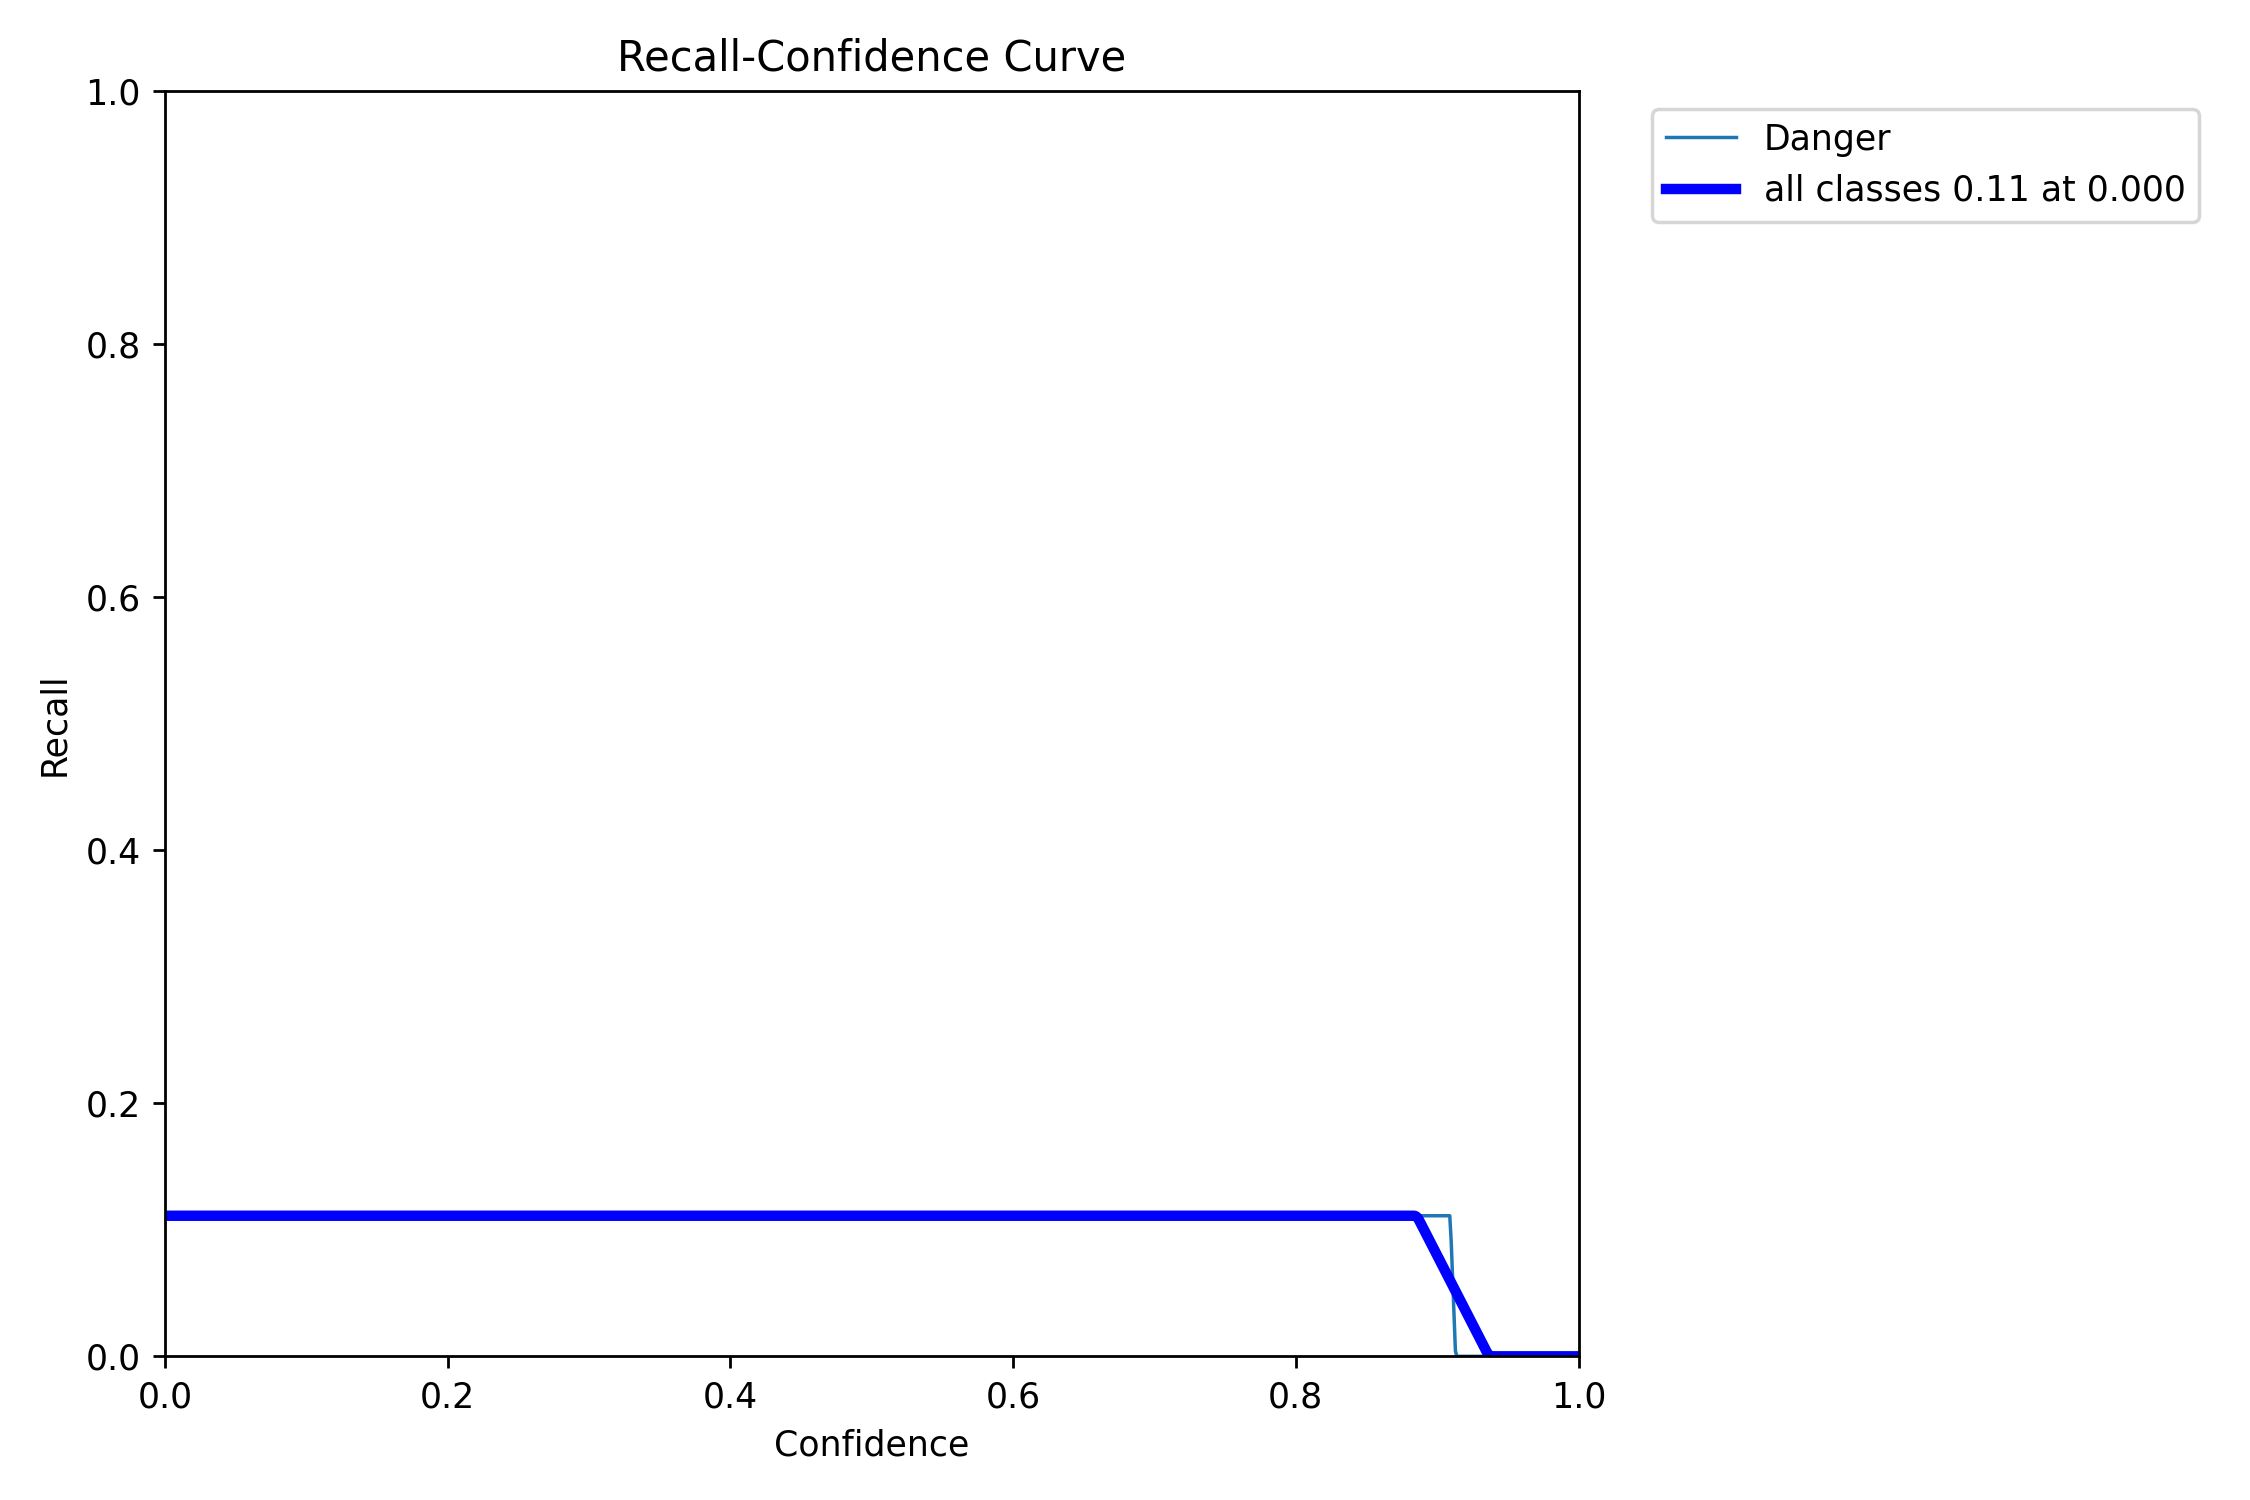
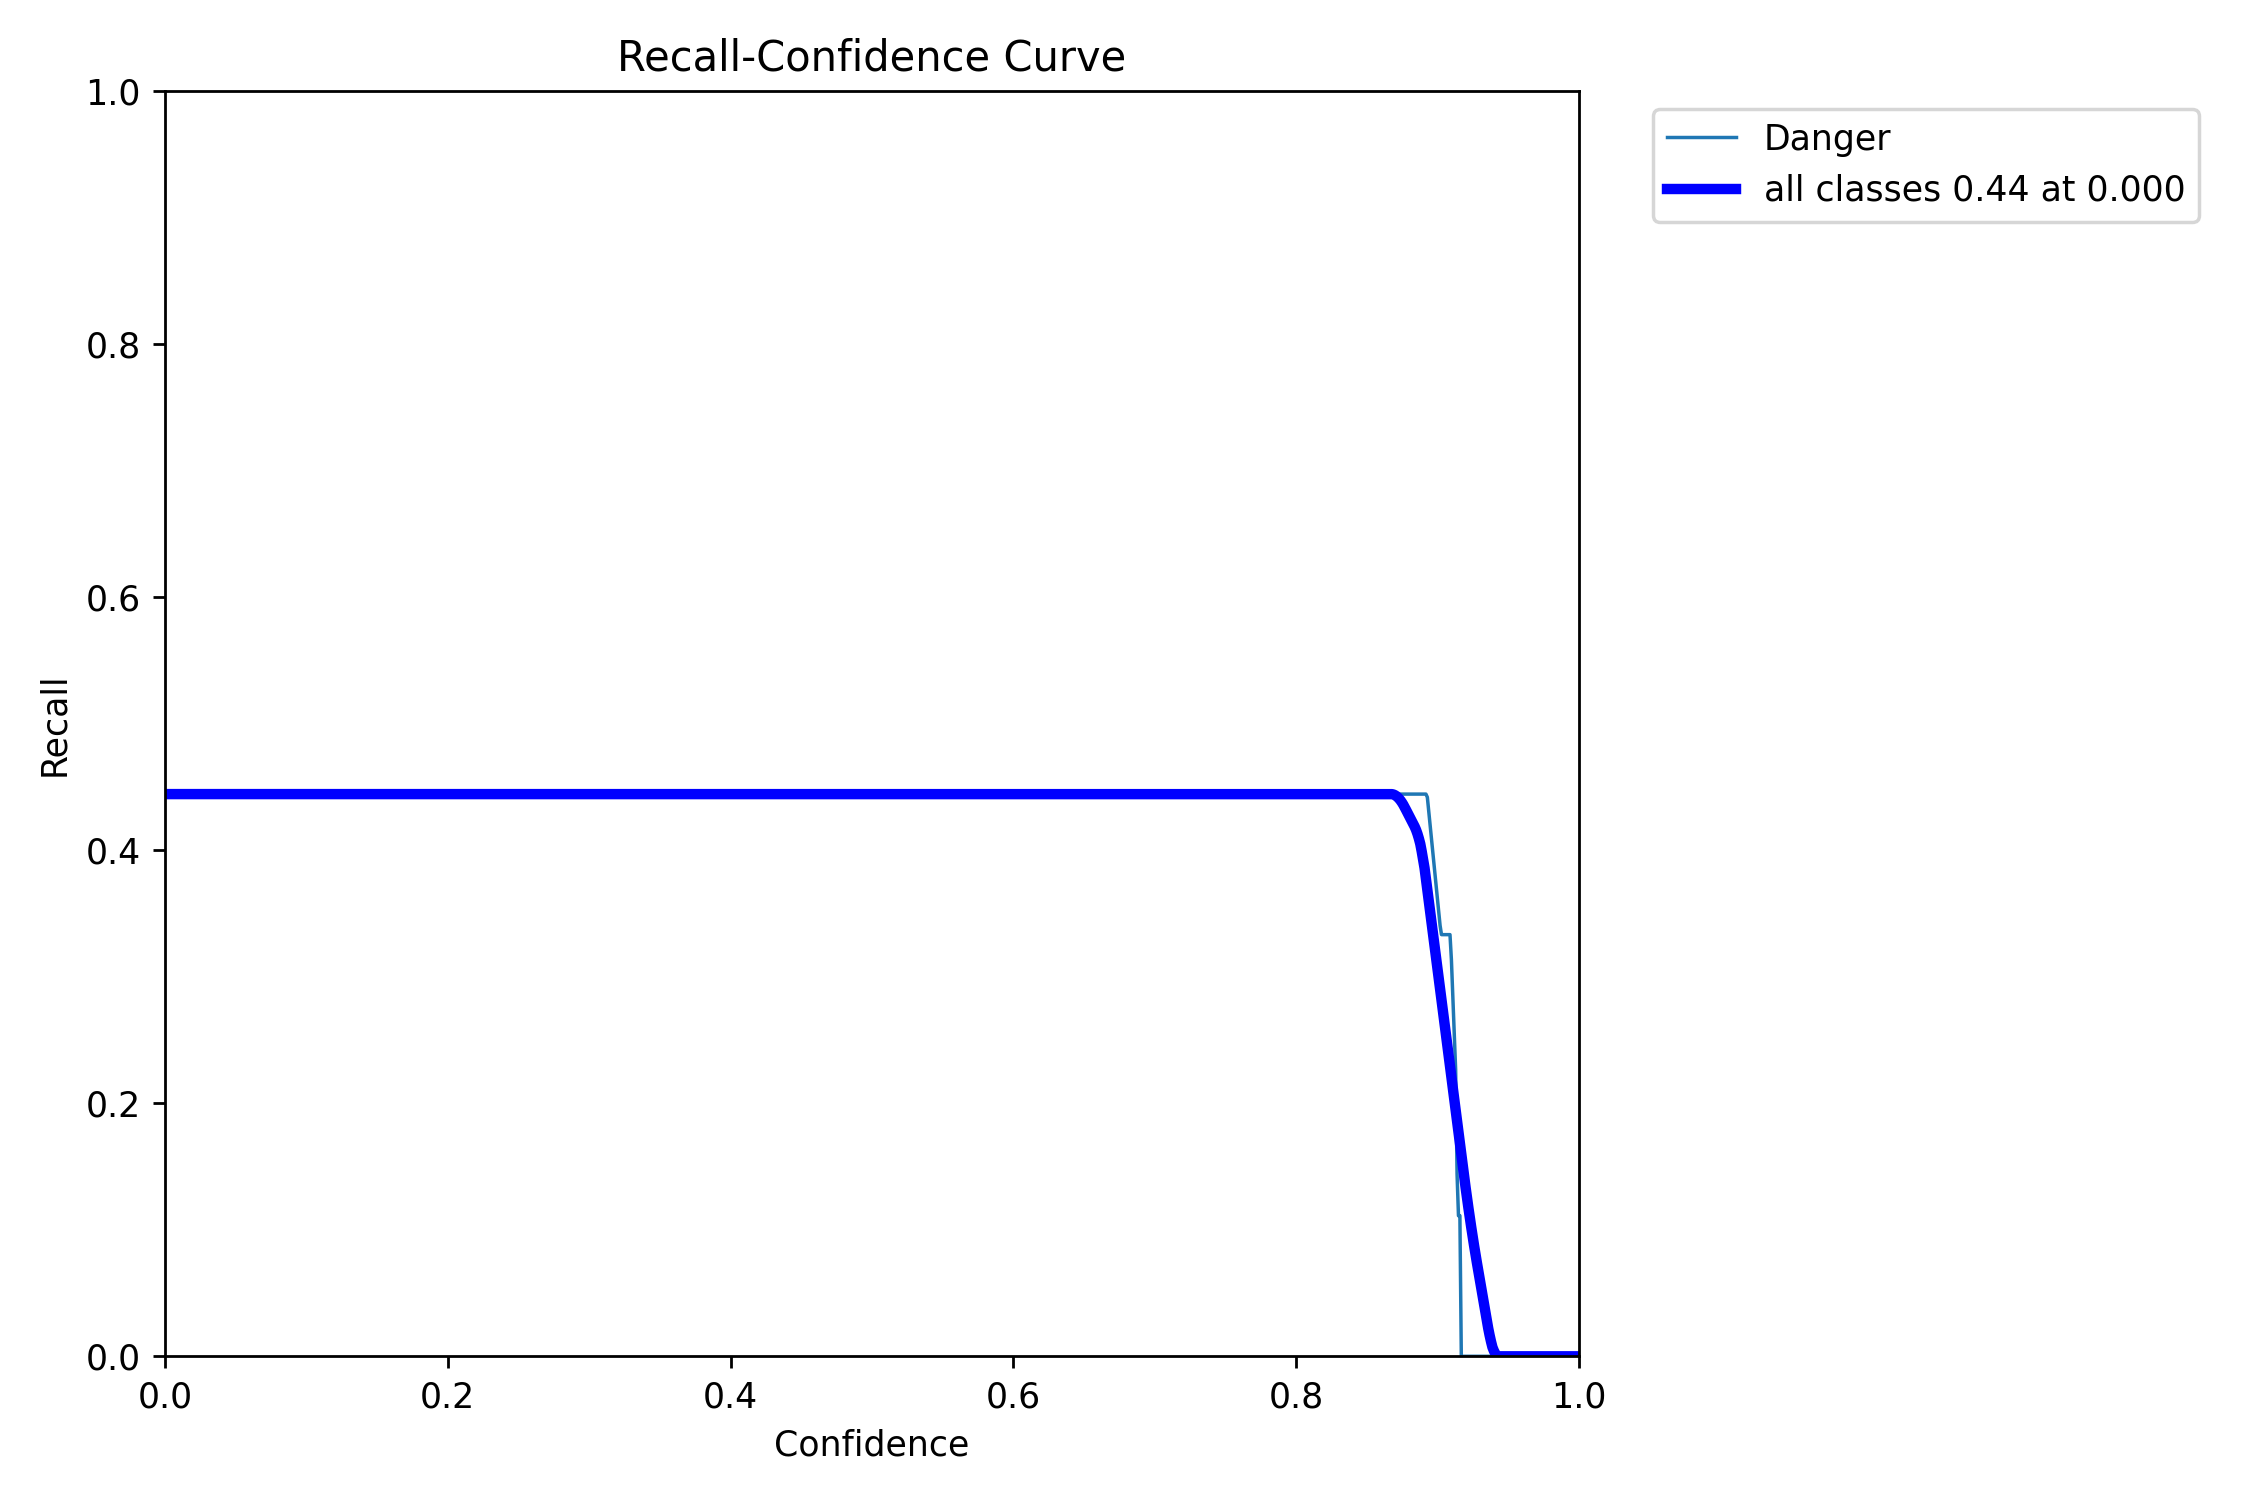
tmp save

Changed region(s): [[0.0622, 0.5213, 0.6844, 0.92], [0.8711, 0.1227, 0.9022, 0.1533], [0.56, 0.92, 0.5911, 0.9507]]

diff --git a/util.py b/util.py
@@ -1,9 +1,16 @@
+import os, platform
 import numpy as np
 from pathlib import Path
 import matplotlib.pyplot as plt
 import cv2
-from PIL import Image
+from PIL import Image, ImageDraw, ImageFont
+from urllib.error import URLError
+import torch
+import logging
 
+LOGGER = logging.getLogger("yolov5")  # define globally (used in train.py, val.py, detect.py, etc.)
+
+FONT = 'Arial.ttf'  # https://ultralytics.com/assets/Arial.ttf
 
 def xyxy2xywh(x: np.array):
     # Convert nx4 boxes from [x1, y1, x2, y2] to [x, y, w, h] where xy1=top-left, xy2=bottom-right
@@ -223,47 +230,6 @@ class Colors:
         return tuple(int(h[1 + i:1 + i + 2], 16) for i in (0, 2, 4))
 
 
-# def resize_and_pad(image, desired_size):
-#     old_size = image.shape[:2] 
-#     ratio = float(desired_size/max(old_size))
-#     new_size = tuple([int(x*ratio) for x in old_size])
-    
-#     # new_size should be in (width, height) format
-    
-#     image = cv2.resize(image, (new_size[1], new_size[0]))
-    
-#     delta_w = desired_size - new_size[1]
-#     delta_h = desired_size - new_size[0]
-    
-#     pad = (delta_w, delta_h)
-    
-#     color = [100, 100, 100]
-#     new_im = cv2.copyMakeBorder(image, 0, delta_h, 0, delta_w, cv2.BORDER_CONSTANT,
-#         value=color)
-        
-#     return new_im, pad
-
-# def get_image_tensor(img, max_size, debug=False):
-#     """
-#     Reshapes an input image into a square with sides max_size
-#     """
-#     if type(img) is str:
-#         # img = cv2.imread(img)
-#         img = Image.open(img)
-#         img = np.array(img)
-
-    
-#     resized, pad = resize_and_pad(img, max_size)
-#     resized = resized.astype(np.float32)
-    
-#     if debug:
-#         cv2.imwrite("intermediate.png", resized)
-
-#     # Normalise!
-#     resized /= 255.0
-    
-#     return img, resized, pad
-
 def letterbox(im, new_shape=(640, 640), color=(114, 114, 114), auto=True, scaleFill=False, scaleup=True, stride=32):
     # Resize and pad image while meeting stride-multiple constraints
     shape = im.shape[:2]  # current shape [height, width]
@@ -304,15 +270,145 @@ def load_image(im, img_size):
         im = cv2.resize(im, (int(w0*r), int(h0*r)), interpolation=interp)
     return im, (h0, w0), im.shape[:2]
 
-def get_image_tensor(im, img_size=320):
+def get_image_tensor(im, img_size=640):
     img, (h0, w0), (h, w) = load_image(im, img_size)
     
 #     shape = self.
     img, ratio, pad = letterbox(img, (img_size, img_size), auto=False, scaleup=False)
     shapes = (h0, w0), ((h / h0, w / w0), pad)  # for COCO mAP rescaling
+    im0 = img.copy()
     
     # Convert
     img = img.transpose((2, 0, 1))[::-1]  # HWC to CHW, BGR to RGB
     img = np.ascontiguousarray(img)
     img = img.astype(float) / 255.0
-    return img, shapes
+    return img, shapes, im0
+
+def is_writeable(dir, test=False):
+    # Return True if directory has write permissions, test opening a file with write permissions if test=True
+    if not test:
+        return os.access(dir, os.W_OK)  # possible issues on Windows
+    file = Path(dir) / 'tmp.txt'
+    try:
+        with open(file, 'w'):  # open file with write permissions
+            pass
+        file.unlink()  # remove file
+        return True
+    except OSError:
+        return False
+
+def is_ascii(s=''):
+    # Is string composed of all ASCII (no UTF) characters? (note str().isascii() introduced in python 3.7)
+    s = str(s)  # convert list, tuple, None, etc. to str
+    return len(s.encode().decode('ascii', 'ignore')) == len(s)
+
+def user_config_dir(dir='Ultralytics', env_var='YOLOV5_CONFIG_DIR'):
+    # Return path of user configuration directory. Prefer environment variable if exists. Make dir if required.
+    env = os.getenv(env_var)
+    if env:
+        path = Path(env)  # use environment variable
+    else:
+        cfg = {'Windows': 'AppData/Roaming', 'Linux': '.config', 'Darwin': 'Library/Application Support'}  # 3 OS dirs
+        path = Path.home() / cfg.get(platform.system(), '')  # OS-specific config dir
+        path = (path if is_writeable(path) else Path('/tmp')) / dir  # GCP and AWS lambda fix, only /tmp is writeable
+    path.mkdir(exist_ok=True)  # make if required
+    return path
+
+CONFIG_DIR = user_config_dir()
+
+def check_font(font=FONT, progress=False):
+    # Download font to CONFIG_DIR if necessary
+    font = Path(font)
+    file = CONFIG_DIR / font.name
+    if not font.exists() and not file.exists():
+        url = "https://ultralytics.com/assets/" + font.name
+        LOGGER.info(f'Downloading {url} to {file}...')
+        torch.hub.download_url_to_file(url, str(file), progress=progress)
+
+def check_pil_font(font=FONT, size=10):
+    # Return a PIL TrueType Font, downloading to CONFIG_DIR if necessary
+    font = Path(font)
+    font = font if font.exists() else (CONFIG_DIR / font.name)
+    try:
+        return ImageFont.truetype(str(font) if font.exists() else font.name, size)
+    except Exception:  # download if missing
+        try:
+            check_font(font)
+            return ImageFont.truetype(str(font), size)
+        # except TypeError:
+        #     check_requirements('Pillow>=8.4.0')  # known issue https://github.com/ultralytics/yolov5/issues/5374
+        except URLError:  # not online
+            return ImageFont.load_default()
+
+
+class Annotator:
+    # YOLOv5 Annotator for train/val mosaics and jpgs and detect/hub inference annotations
+    def __init__(self, im, line_width=None, font_size=None, font='Arial.ttf', pil=False, example='abc'):
+        assert im.data.contiguous, 'Image not contiguous. Apply np.ascontiguousarray(im) to Annotator() input images.'
+        non_ascii = not is_ascii(example)  # non-latin labels, i.e. asian, arabic, cyrillic
+        self.pil = pil or non_ascii
+        if self.pil:  # use PIL
+            self.im = im if isinstance(im, Image.Image) else Image.fromarray(im)
+            self.draw = ImageDraw.Draw(self.im)
+            self.font = check_pil_font(font='Arial.Unicode.ttf' if non_ascii else font,
+                                       size=font_size or max(round(sum(self.im.size) / 2 * 0.035), 12))
+        else:  # use cv2
+            self.im = im
+        self.lw = line_width or max(round(sum(im.shape) / 2 * 0.003), 2)  # line width
+
+    def box_label(self, box, label='', color=(128, 128, 128), txt_color=(255, 255, 255)):
+        # Add one xyxy box to image with label
+        if self.pil or not is_ascii(label):
+            self.draw.rectangle(box, width=self.lw, outline=color)  # box
+            if label:
+                w, h = self.font.getsize(label)  # text width, height
+                outside = box[1] - h >= 0  # label fits outside box
+                self.draw.rectangle(
+                    (box[0], box[1] - h if outside else box[1], box[0] + w + 1,
+                     box[1] + 1 if outside else box[1] + h + 1),
+                    fill=color,
+                )
+                # self.draw.text((box[0], box[1]), label, fill=txt_color, font=self.font, anchor='ls')  # for PIL>8.0
+                self.draw.text((box[0], box[1] - h if outside else box[1]), label, fill=txt_color, font=self.font)
+        else:  # cv2
+            p1, p2 = (int(box[0]), int(box[1])), (int(box[2]), int(box[3]))
+            cv2.rectangle(self.im, p1, p2, color, thickness=self.lw, lineType=cv2.LINE_AA)
+            if label:
+                tf = max(self.lw - 1, 1)  # font thickness
+                w, h = cv2.getTextSize(label, 0, fontScale=self.lw / 3, thickness=tf)[0]  # text width, height
+                outside = p1[1] - h >= 3
+                p2 = p1[0] + w, p1[1] - h - 3 if outside else p1[1] + h + 3
+                cv2.rectangle(self.im, p1, p2, color, -1, cv2.LINE_AA)  # filled
+                cv2.putText(self.im,
+                            label, (p1[0], p1[1] - 2 if outside else p1[1] + h + 2),
+                            0,
+                            self.lw / 3,
+                            txt_color,
+                            thickness=tf,
+                            lineType=cv2.LINE_AA)
+
+    def rectangle(self, xy, fill=None, outline=None, width=1):
+        # Add rectangle to image (PIL-only)
+        self.draw.rectangle(xy, fill, outline, width)
+
+    def text(self, xy, text, txt_color=(255, 255, 255), anchor='top'):
+        # Add text to image (PIL-only)
+        if anchor == 'bottom':  # start y from font bottom
+            w, h = self.font.getsize(text)  # text width, height
+            xy[1] += 1 - h
+        self.draw.text(xy, text, fill=txt_color, font=self.font)
+
+    def result(self):
+        # Return annotated image as array
+        return np.asarray(self.im)
+
+
+def xywhn2xyxy(x, w=640, h=640, padw=0, padh=0):
+    print(padw, padh)
+    # Convert nx4 boxes from [x, y, w, h] normalized to [x1, y1, x2, y2] where xy1=top-left, xy2=bottom-right
+    y = x.clone() if isinstance(x, torch.Tensor) else np.copy(x)
+    y[:, 0] = w * (x[:, 0] - x[:, 2] / 2) + padw  # top left x
+    y[:, 1] = h * (x[:, 1] - x[:, 3] / 2) + padh  # top left y
+    y[:, 2] = w * (x[:, 0] + x[:, 2] / 2) + padw  # bottom right x
+    y[:, 3] = h * (x[:, 1] + x[:, 3] / 2) + padh  # bottom right y
+    return y

diff --git a/test.py b/test.py
@@ -4,10 +4,10 @@ from glob import glob
 import cv2
 from pathlib import Path
 
-# from models.tf_model import Model as TFModel
+from models.tf_model import Model as TFModel
 from models.torch_model import Model as TorchModel
 from nms import non_max_suppression
-from util import get_image_tensor, box_iou, scale_coords, xywh2xyxy, ap_per_class
+from util import get_image_tensor, box_iou, scale_coords, xywh2xyxy, ap_per_class, Annotator, xywhn2xyxy
 
 
 def process_batch(detections, labels, iouv):
@@ -42,8 +42,8 @@ iouv = np.linspace(0.5, 0.95, 10)  # iou vector for mAP@0.5:0.95
 niou = iouv.size
 
 m = TorchModel()
-images = glob('sample/images/*')
-labels = glob('sample/labels/*')
+images = sorted(glob('sample/images/*'))
+labels = sorted(glob('sample/labels/*'))
 y = []
 for label in labels:
     with open(label, 'r') as f:
@@ -56,14 +56,14 @@ for label in labels:
             lines = np.ndarray((0, 5))
         y.append(lines)
 x = [(get_image_tensor(cv2.imread(img), 640),img) for img in images]
-for ((im, shapes), paths), (label) in zip(x, y):
-    # image, shapes = get_image_tensor(cv2.imread(image_path), 640)
-    # image = torch.from_numpy(image).unsqueeze(0).float()
-    label[:, 1:] *= [640, 640, 640, 640]
+for idx, (((im, shapes, im0), paths), (label)) in enumerate(zip(x, y)):
     out = m.forward(torch.from_numpy(im).unsqueeze(0).float())
     # print(result, type(result), target)
     out = non_max_suppression(prediction=out, conf_thres=0.0001, iou_thres=0.6, labels=[], agnostic=True)
-
+    _, height, width = im.shape
+    annotator = Annotator(im0, line_width=3)
+    label_origin = label.copy()
+    label[:, 1:] *= [width, height, width, height]
     for si, pred in enumerate(out):
         shape = shapes[0]
         nl, npr = label.shape[0], pred.shape[0]
@@ -77,16 +77,27 @@ for ((im, shapes), paths), (label) in zip(x, y):
             continue
 
         if nl:
-            tbox = xywh2xyxy(label[:, 1:])
+            tbox = xywh2xyxy(label[:, 1:5])
             scale_coords(im.shape[1:], tbox, shape, shapes[1])  # native-space labels
             labeln = np.concatenate((label[:, 0:1], tbox), 1)
             correct = process_batch(predn, labeln, iouv)
         stats.append((correct, pred[:, 4], pred[:, 5], label[:, 0]))  # (correct, conf, pcls, tcls)
 
+        for *xyxy, conf, cls in reversed(pred):
+            c = int(cls)
+            annotator.box_label(xyxy, None, (0, 0, 255))
+        print('_'*99)
+        xyxys = xywh2xyxy(label[:, 1:5])
+        for xyxy in reversed(xyxys):
+            print(xyxy)
+            annotator.box_label(xyxy, None, (255, 0, 0))
+        im0 = annotator.result()
+        name = paths.split('/')[-1]
+        cv2.imwrite(f'{name}', im0)
+
 stats = [np.concatenate(x, 0) for x in zip(*stats)]
 if len(stats):
     tp, fp, p, r, f1, ap, ap_class = ap_per_class(*stats, plot=True, save_dir=Path('res'),  names={0: 'Danger'})
-    print(tp, fp, p, r, f1, ap, ap_class)
     ap50, ap = ap[:, 0], ap.mean(1)  # AP@0.5, AP@0.5:0.95
     mp, mr, map50, map95 = p.mean(), r.mean(), ap50.mean(), ap.mean()
 nt = np.bincount(stats[3].astype(int), minlength=nc)

diff --git a/val.py b/val.py
@@ -2,7 +2,7 @@ from glob import glob
 
 import numpy as np
 
-from models.tf_model import Model
+from models.edge_model import Model
 from util import get_image_tensor
 
 model = Model('models/320/s.tflite', 'data/tree.yaml', conf_thresh=0.25, iou_thresh=0.45)

diff --git a/models/edge_model.py b/models/edge_model.py
@@ -5,7 +5,8 @@ from pathlib import Path
 import time
 import numpy as np
 
-import tensorflow as tf
+import pycoral.utils.edgetpu as etpu
+from pycoral.adapters import common
 
 from util import Colors
 from nms import non_max_suppression
